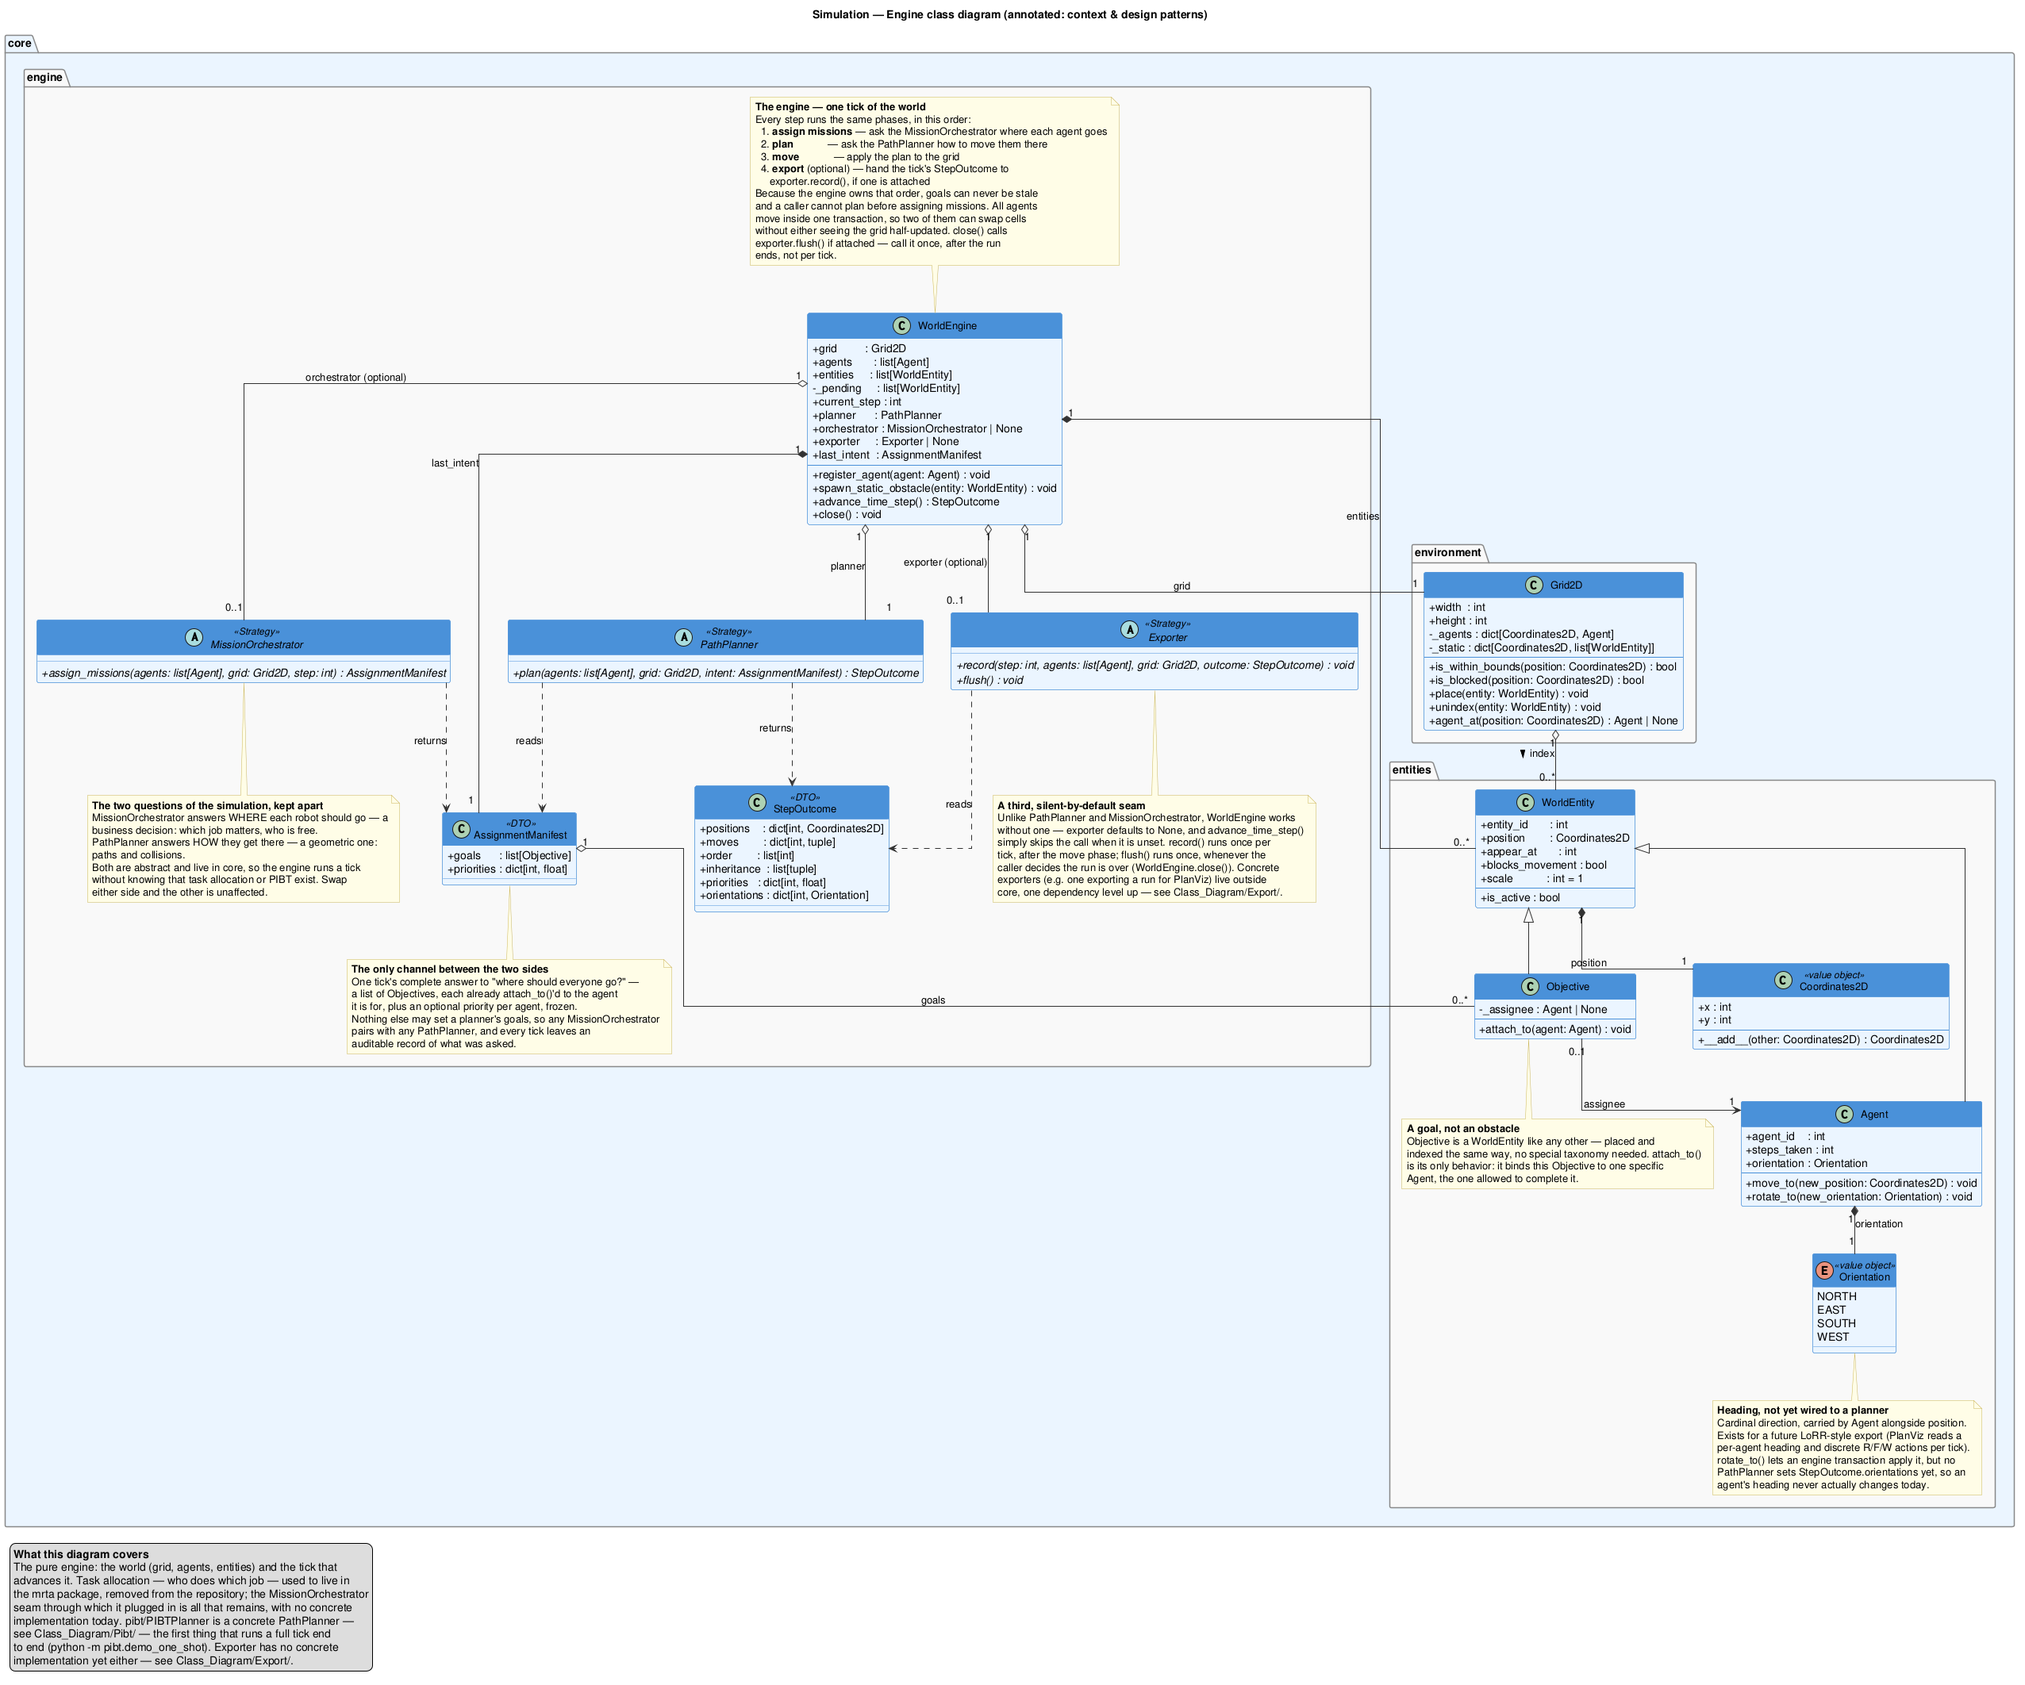
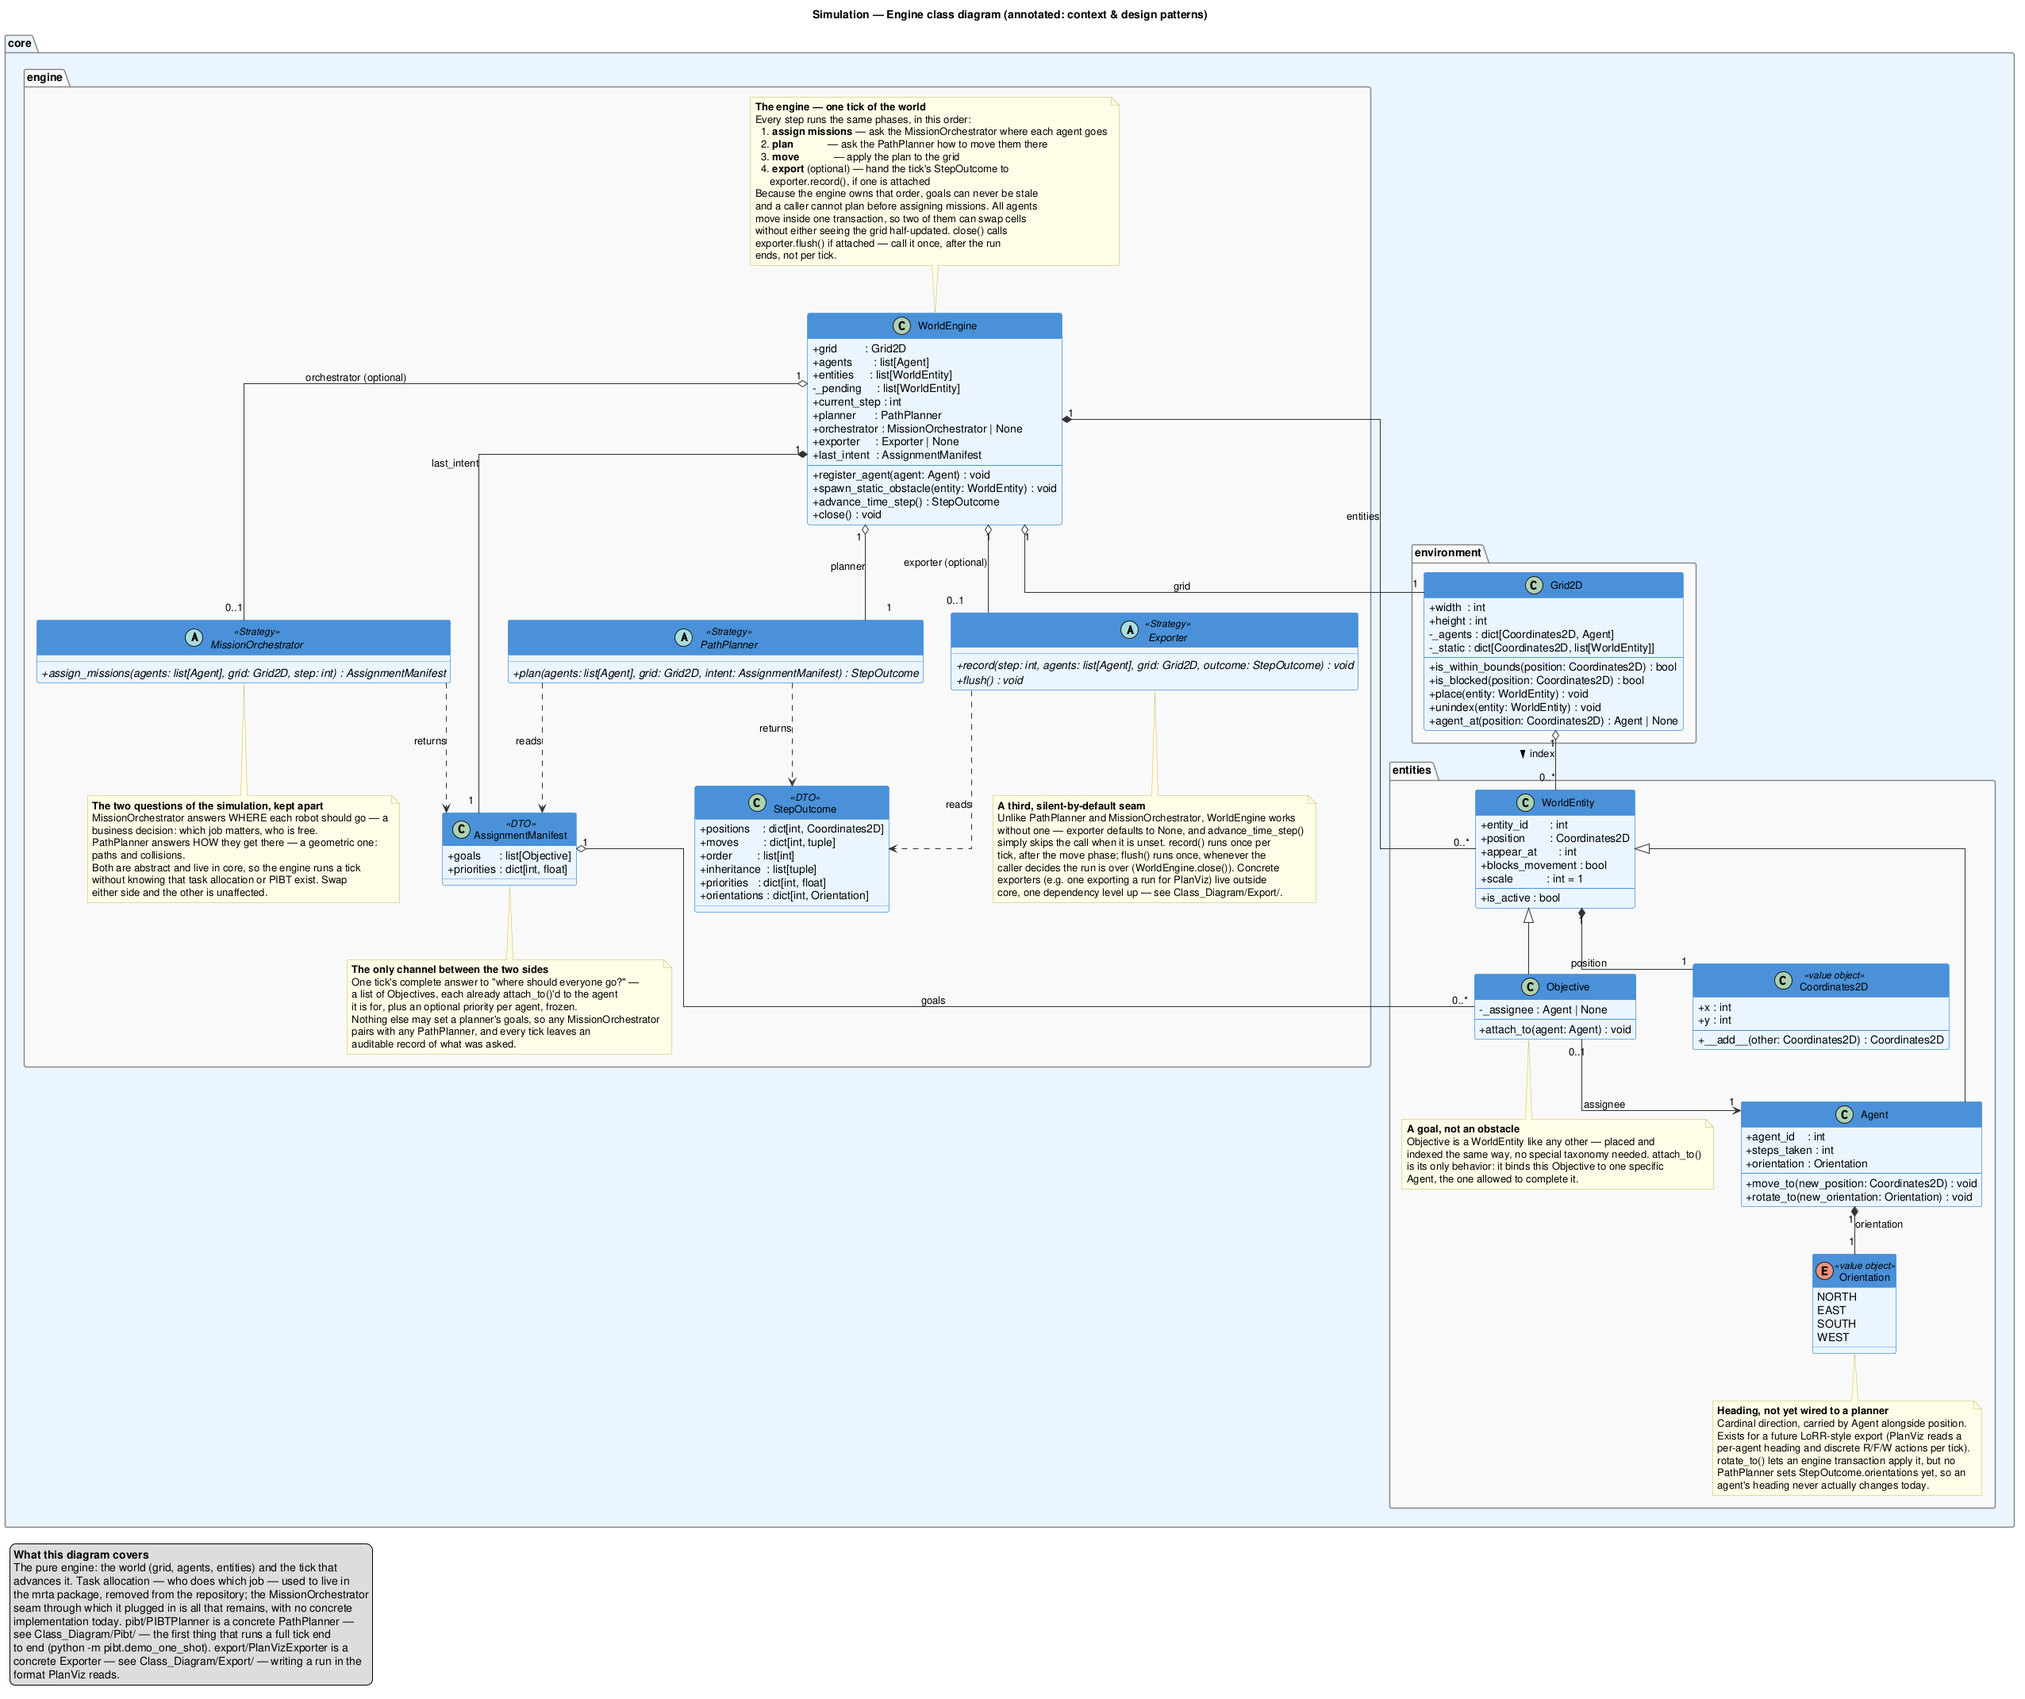
docs: catch up now-implemented Exporter/export/ across all guides
Removes every "not yet implemented"/"diagram-only" caveat now that
core/engine/exporter.py, WorldEngine's exporter field and
export/PlanVizExporter are real: core/AGENT.md, root AGENT.md
(package guide table, layout, dependency direction — export/ joins
pibt/ as core/'s second dependent), diagrammes/AGENT.md, and the
legends on both the main class diagram and Class_Diagram/Export/.
Adds export/AGENT.md, mirroring pibt/AGENT.md's shape.

diff --git a/AGENT.md b/AGENT.md
@@ -23,16 +23,18 @@ direction, the rules and the invariants. Everything about a specific class lives
 
 | Guide | Covers |
 |---|---|
-| [`core/AGENT.md`](core/AGENT.md) | `Coordinates2D`, `WorldEntity`, `Orientation`, `Agent`, `Objective`, `Grid2D`, `StepOutcome`, `AssignmentManifest`, `PathPlanner`, `MissionOrchestrator`, `WorldEngine` — and the tick |
+| [`core/AGENT.md`](core/AGENT.md) | `Coordinates2D`, `WorldEntity`, `Orientation`, `Agent`, `Objective`, `Grid2D`, `StepOutcome`, `AssignmentManifest`, `PathPlanner`, `MissionOrchestrator`, `Exporter`, `WorldEngine` — and the tick |
 | [`pibt/AGENT.md`](pibt/AGENT.md) | `PIBTPlanner`, a concrete `PathPlanner` (Priority Inheritance with Backtracking) |
+| [`export/AGENT.md`](export/AGENT.md) | `PlanVizExporter`, a concrete `Exporter` (writes a run for PlanViz) |
 | [`diagrammes/AGENT.md`](diagrammes/AGENT.md) | the binding rule for changing a diagram — read it before touching one |
 
 **Working on one package?** Root + that guide is enough.
 
 `client/`, `report/`, `algo/` and `mrta/` are all gone as of this and earlier refactors — see
-`TODO.md` for exactly what that broke and why it was left broken rather than patched. `pibt/`
-restores one concrete `PathPlanner` from what `algo/` used to provide — see
-[`pibt/AGENT.md`](pibt/AGENT.md); it is `core/`'s only dependent right now.
+`TODO.md` for exactly what that broke and why it was left broken rather than patched. `pibt/` and
+`export/` are `core/`'s two dependents right now — `pibt/` restores one concrete `PathPlanner`
+from what `algo/` used to provide, `export/` supplies a concrete `Exporter`; neither depends on
+the other. See [`pibt/AGENT.md`](pibt/AGENT.md) and [`export/AGENT.md`](export/AGENT.md).
 
 ---
 
@@ -46,9 +48,13 @@ by name) — all four raise `ImportError` at the top-level import, see `TODO.md`
 `OneShotGoalDispatcher` (one-shot fixed goals, not `mrta` — gone, and `core` dropped its own
 `FixedGoalDispatcher` too, see `core/AGENT.md`) and steps the engine to convergence.
 
+A run can be exported for PlanViz by attaching `export.PlanVizExporter` to the `WorldEngine`
+instead of just stepping it — see `export/AGENT.md`; `pibt/demo_one_shot.py` itself does not do
+this yet.
+
 There is currently **no test suite either**, and no working de-facto regression check beyond that
-one demo script. `core/` and `pibt/` both still import cleanly and their internals can be
-exercised directly (construct a `Grid2D`/`Agent` by hand, no scenario wiring needed).
+one demo script. `core/`, `pibt/` and `export/` all still import cleanly and their internals can
+be exercised directly (construct a `Grid2D`/`Agent` by hand, no scenario wiring needed).
 
 ---
 
@@ -64,6 +70,9 @@ exercised directly (construct a `Grid2D`/`Agent` by hand, no scenario wiring nee
 ├── pibt/          — Priority Inheritance with Backtracking, depends only on core -> pibt/AGENT.md
 │                    reservation_table, priority_manager, pibt_core, pibt_planner, demo_one_shot
 │
+├── export/        — concrete Exporters, depends only on core                   -> export/AGENT.md
+│                    planviz_exporter
+│
 ├── diagrammes/    — PlantUML sources + PNGs; script_perso.sh watches and regenerates -> diagrammes/AGENT.md
 ├── main.py               — BROKEN: imported client.control/report, both removed — see TODO.md
 ├── sim_many_pibt.py      — BROKEN: imported a concrete PathPlanner from algo/, removed — see TODO.md
@@ -77,15 +86,17 @@ exercised directly (construct a `Grid2D`/`Agent` by hand, no scenario wiring nee
 `experiments.csv` and `sim_results.csv` may sit at the root — gitignored outputs.
 
 **Dependency direction:** `core/` has no outgoing dependencies — a pure engine, no rendering or
-allocation coupling. `pibt/` is its only dependent right now:
+allocation coupling. `pibt/` and `export/` are its two dependents right now, neither depending on
+the other:
 
 ```
-pibt -> core
+pibt   -> core
+export -> core
 ```
 
-`pibt/PIBTPlanner` is a concrete `PathPlanner`; there is still nothing implementing
-`MissionOrchestrator` in `core/` itself (see `pibt/one_shot_dispatcher.py` for a local,
-package-scoped one) — see `TODO.md`.
+`pibt/PIBTPlanner` is a concrete `PathPlanner` and `export/PlanVizExporter` a concrete `Exporter`;
+there is still nothing implementing `MissionOrchestrator` in `core/` itself (see
+`pibt/one_shot_dispatcher.py` for a local, package-scoped one) — see `TODO.md`.
 
 ---
 
@@ -117,7 +128,7 @@ break it. When in doubt, the class diagram arbitrates.
   | `diagrammes/component_diagram.puml` | packages and the seams between them | `plantuml diagrammes/component_diagram.puml` |
   | `diagrammes/Class_Diagram/class_diag_simplified.puml` | the easiest-to-read rendering | `plantuml diagrammes/Class_Diagram/class_diag_simplified.puml` |
   | `diagrammes/Class_Diagram/Pibt/class_diag_commented.puml` | the `pibt/` package | `plantuml diagrammes/Class_Diagram/Pibt/class_diag_commented.puml` |
-  | `diagrammes/Class_Diagram/Export/class_diag_commented.puml` | the (not yet implemented) `export/` package | `plantuml diagrammes/Class_Diagram/Export/class_diag_commented.puml` |
+  | `diagrammes/Class_Diagram/Export/class_diag_commented.puml` | the `export/` package | `plantuml diagrammes/Class_Diagram/Export/class_diag_commented.puml` |
 
   Never edit the generated PNGs. There is no sequence diagram: `sequence_tick.puml` was dropped —
   the tick order it showed is stated on `WorldEngine` in the class diagram and in

diff --git a/export/AGENT.md b/export/AGENT.md
@@ -1,0 +1,59 @@
+# export/ — concrete Exporters
+
+> **Package guide.** The general context — layout, dependency direction, hard rules,
+> invariants and the diagrams — lives in the root [`AGENT.md`](../AGENT.md) and is **not**
+> repeated here. Read it first.
+
+`export/` supplies concrete `Exporter` implementations. It imports only from `core` and is one of
+`core/`'s two dependents (alongside `pibt/`); the two never import each other — `export/` is
+planner-agnostic, it works with whatever `PathPlanner` produced the run. The `Exporter` seam
+itself lives in `core/engine/exporter.py`, not here — see `core/AGENT.md`.
+
+### `PlanVizExporter` — `export/planviz_exporter.py`
+```python
+class PlanVizExporter(Exporter):
+    def __init__(self, map_path: str, plan_path: str, ticks_per_action: int = 1): ...
+    def record(self, step: int, agents: list[Agent], grid: Grid2D, outcome: StepOutcome) -> None: ...
+    def flush(self) -> None: ...
+```
+Writes a run in the format PlanViz (League of Robot Runners) reads: a `.map` file plus a `.json`
+plan file (`start`, `actualPaths`, `plannerPaths`). Built from reading the Start-Kit's own export
+code (`src/Simulator.cpp`, `src/ActionModel.cpp`, `inc/common.h`), not just
+`Input_Output_Format.md`:
+
+- **action vocabulary** — `F` (forward), `R` (rotate clockwise), `C` (rotate counter-clockwise),
+  `W` (wait). Not a generic "rotate": `record()`'s `outcome.orientations` only ever carries the
+  agent's *new* heading (`PIBTPlanner`'s `orientation=True` never enforces a rotate-XOR-move
+  constraint — see the caveat on `Agent` in `core/AGENT.md`), so a same-tick position+orientation
+  change becomes N clockwise-step `R`/`C` actions (whichever direction is fewer steps) followed by
+  one `F` — one WorldEngine tick can become **two** PlanViz actions.
+- **coordinates are `(row, col)`, not core's `(x, y)`** — a path segment header is
+  `(tick, y, x, heading, 0)`. Matches the Start-Kit's row-major convention
+  (`location = row*cols+col`), which happens to agree with `core`'s own axes (x East+, y South+)
+  once transposed.
+- **orientation has two encodings in the same file** — numeric (`E=0, S=1, W=2, N=3`) in a path
+  segment header, but a *letter* (`Orientation.value` already matches) in the top-level `start`
+  array. Not a bug to "fix" — that is genuinely how the Start-Kit writes it.
+- **`ticks_per_action` defaults to `1`** — one PlanViz tick per WorldEngine tick. Does not model
+  the Start-Kit's `agentCounter` (execution ticks per Forward/Rotate action, ~10 in the real
+  competition); raising it replays every action `ticks_per_action` times for more realistic
+  pacing in PlanViz's own player.
+
+`record()`'s first call for a given agent also seeds a baseline entry from `outcome.moves` (the
+`(from, to)` pair every `PathPlanner` fills), recovering the agent's pre-tick-1 position —
+`WorldEngine` never calls `record()` before the first tick, so there is no other way to see it.
+The baseline's *heading* is a throwaway placeholder: `flush()` defers the declared start heading
+to the first real tick's heading instead of trusting `Agent`'s default `NORTH`, which is "nobody
+told me yet," not an observed fact — an agent whose very first move is a straight line needs no
+spurious rotate action to reach its "declared" starting heading.
+
+`makespan` in the written plan is the sum of the encoded action durations, **not**
+`WorldEngine.current_step`'s final value — they diverge whenever a same-tick rotate+move split
+inserted an extra `R`/`C` action, so the exported timeline can run longer than the number of
+WorldEngine ticks that produced it.
+
+⚠ **Verified against a real scenario, not PlanViz itself.** A 3x3 grid, agent `(0,0) -> (2,2)`
+under `PIBTPlanner(orientation=True)` was traced end to end and produces a correctly-encoded
+`F 2,C 1,F 2` (the path turns a corner, exercising the split). PlanViz was not installed in the
+environment this was built in (missing `pandas`) — the map/plan format is correct by
+construction, but nobody has looked at it rendered yet.

diff --git a/core/AGENT.md b/core/AGENT.md
@@ -201,15 +201,15 @@ class WorldEngine:
     _validate_plan(result)             # rejects an inapplicable plan BEFORE any mutation
 ```
 
-⚠ **`exporter`/`close()`/`Exporter` are diagram-only — no code behind them yet.** `Exporter`
-(`core/engine/exporter.py`, not yet written) is a third abstract seam alongside `PathPlanner` and
+`Exporter` (`core/engine/exporter.py`) is a third abstract seam alongside `PathPlanner` and
 `MissionOrchestrator`, but silent by default: `WorldEngine` works with `exporter=None`, and
 `advance_time_step()` simply skips the `record()` call when unset — unlike `planner`, this one is
 not mandatory. `record(step, agents, grid, outcome)` runs once per tick, after the move/rotate
 phases; `flush()` runs once, whenever the caller decides the run is over (`WorldEngine.close()`),
-not per tick. Concrete exporters (e.g. one producing a PlanViz-readable run) live in `export/`, a
-new dependent package with the same one-directional shape as `pibt/` — see
-`Class_Diagram/Export/`. A caller wanting a logged run just constructs
+not per tick. Concrete exporters live in `export/`, a dependent package with the same
+one-directional shape as `pibt/` — `PlanVizExporter` (`export/planviz_exporter.py`) is the one
+implementation so far, writing a run in the format PlanViz (League of Robot Runners) reads — see
+`Class_Diagram/Export/` and `export/AGENT.md`. A caller wanting a logged run just constructs
 `WorldEngine(grid, planner, exporter=SomeExporter(...))` directly; there is no decorator class.
 
 **`advance_time_step()` logic** — `current_step += 1` runs **first**, so `appear_at` is compared
@@ -225,7 +225,7 @@ against the already-incremented step (an entity with `appear_at=1` spawns on the
 # 6. Place: agent.move_to(target) then grid.place(agent)
 # 7. Rotate: agent.rotate_to(orientation) for every agent in result.orientations — no lift/place
 #    needed, orientation is not grid-indexed
-# 8. Export (optional, not yet implemented): self.exporter.record(current_step, agents, grid, result)
+# 8. Export (optional): self.exporter.record(current_step, agents, grid, result)
 #    if exporter is not None
 #    Return result — a caller reads diagnostics from it without importing the planner's package
 ```

diff --git a/diagrammes/AGENT.md b/diagrammes/AGENT.md
@@ -32,7 +32,7 @@
 | `component_diagram.puml` | packages and the seams between them | `plantuml diagrammes/component_diagram.puml` |
 | `Class_Diagram/class_diag_simplified.puml` | the easiest-to-read rendering — plain attributes, no notes | `plantuml diagrammes/Class_Diagram/class_diag_simplified.puml` |
 | `Class_Diagram/Pibt/class_diag_commented.puml` | the `pibt/` package: `PIBTPlanner`, `ReservationTable`, `PriorityManager`, `pibt_core`, `OneShotGoalDispatcher` | `plantuml diagrammes/Class_Diagram/Pibt/class_diag_commented.puml` |
-| `Class_Diagram/Export/class_diag_commented.puml` | the (not yet implemented) `export/` package: `PlanVizExporter` — the `Exporter` seam itself now lives in `Class_Diagram/class_diag_commented.puml`, alongside `PathPlanner`/`MissionOrchestrator` | `plantuml diagrammes/Class_Diagram/Export/class_diag_commented.puml` |
+| `Class_Diagram/Export/class_diag_commented.puml` | the `export/` package: `PlanVizExporter` — the `Exporter` seam itself lives in `Class_Diagram/class_diag_commented.puml`, alongside `PathPlanner`/`MissionOrchestrator` | `plantuml diagrammes/Class_Diagram/Export/class_diag_commented.puml` |
 
 Never edit a generated PNG. `script_perso.sh` watches a `.puml`/`.iuml` file and regenerates it
 on save, for iterating live.
